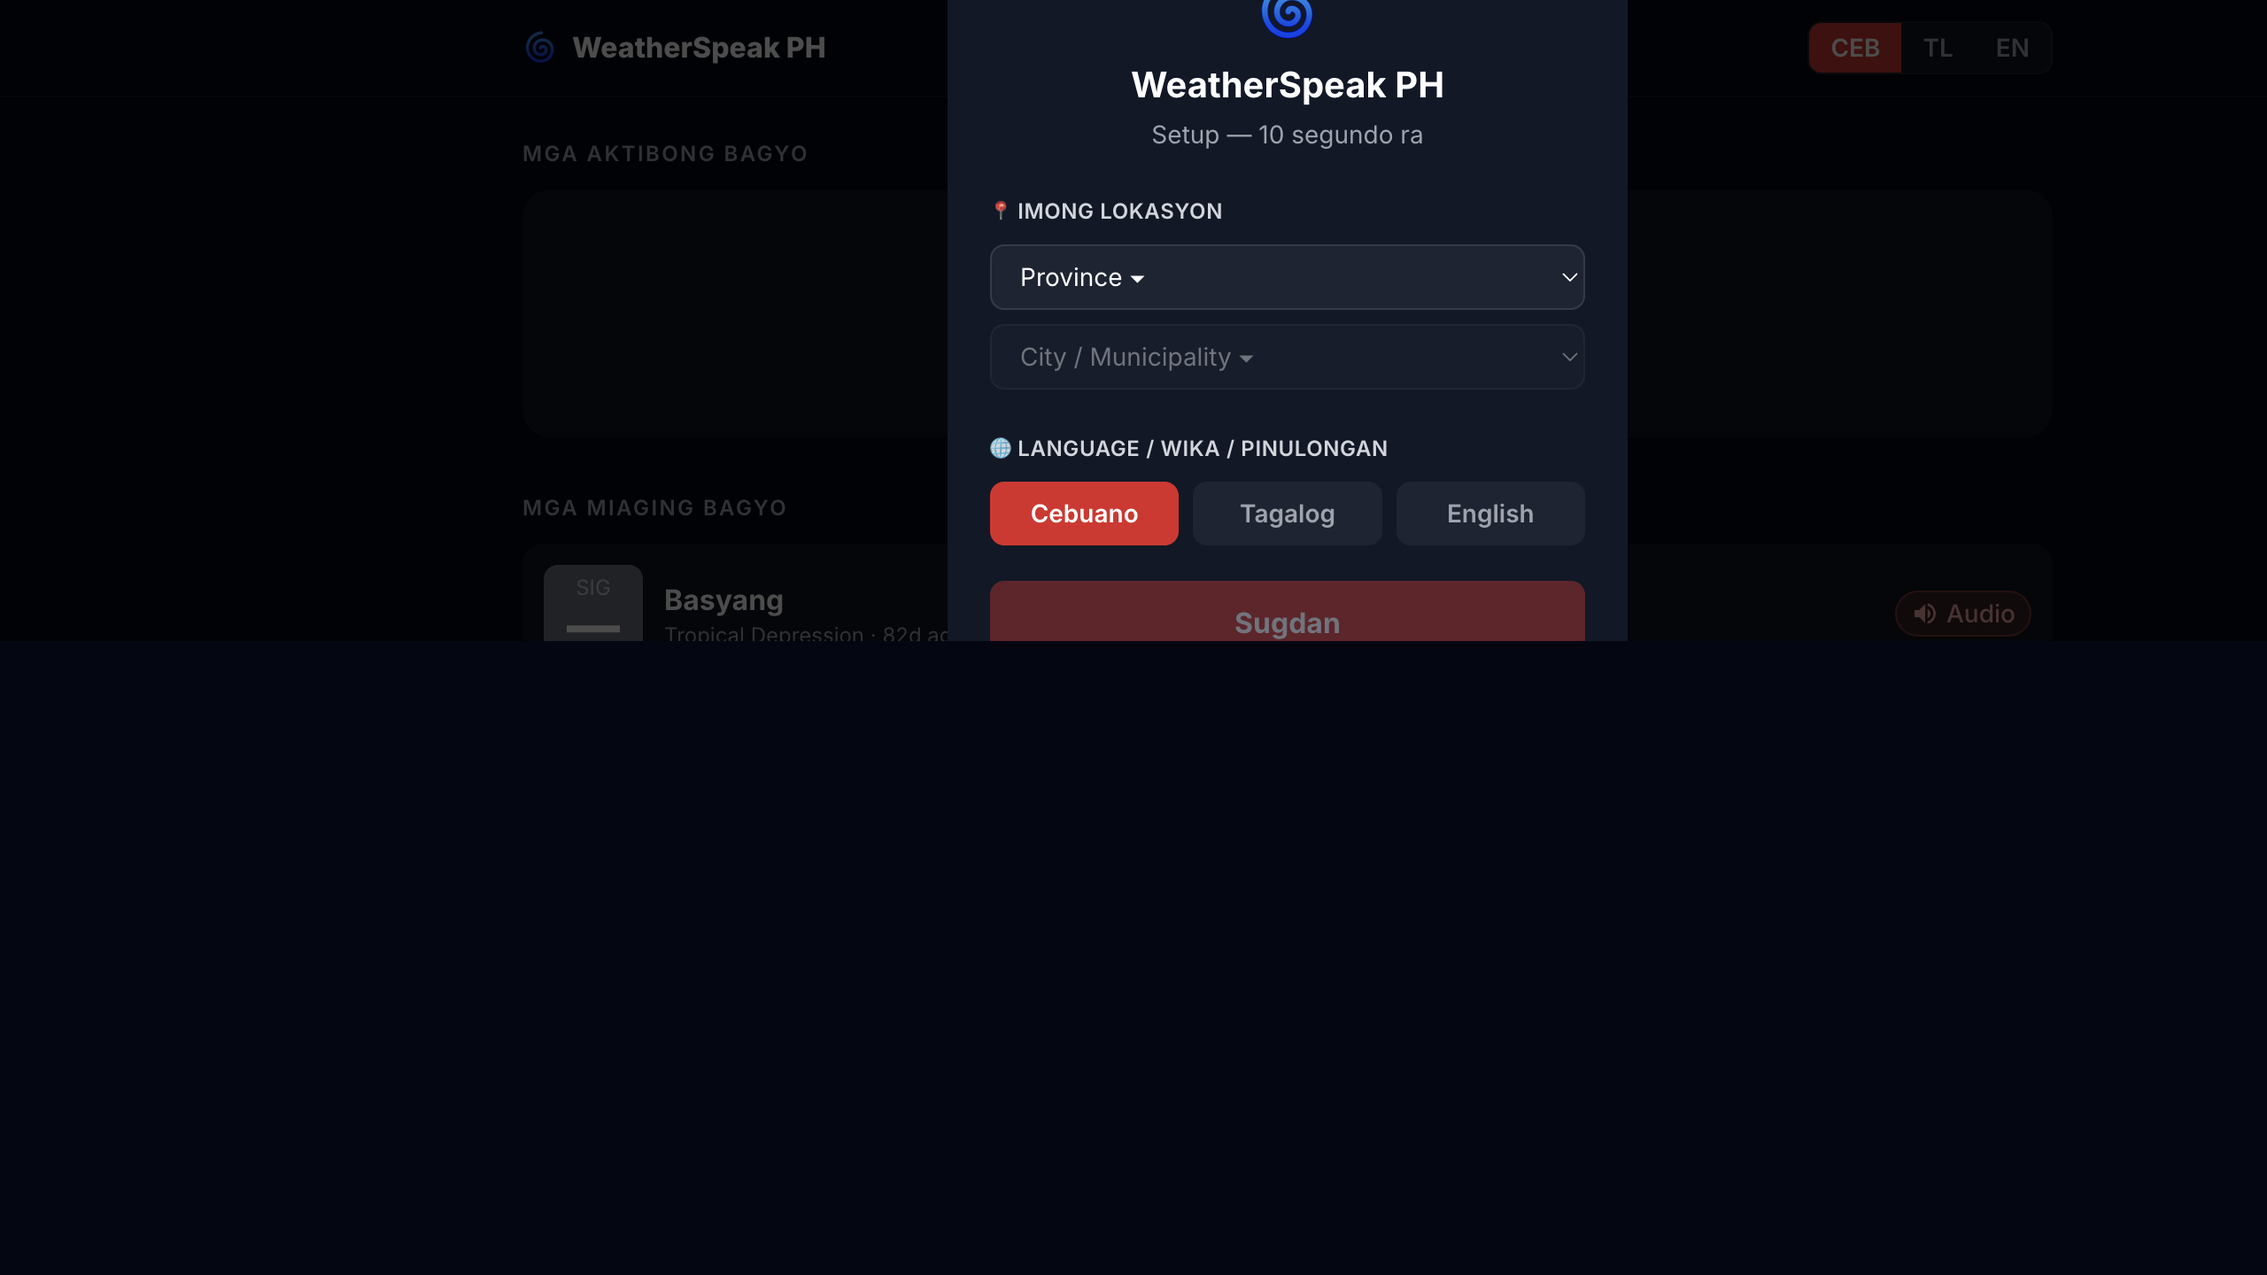
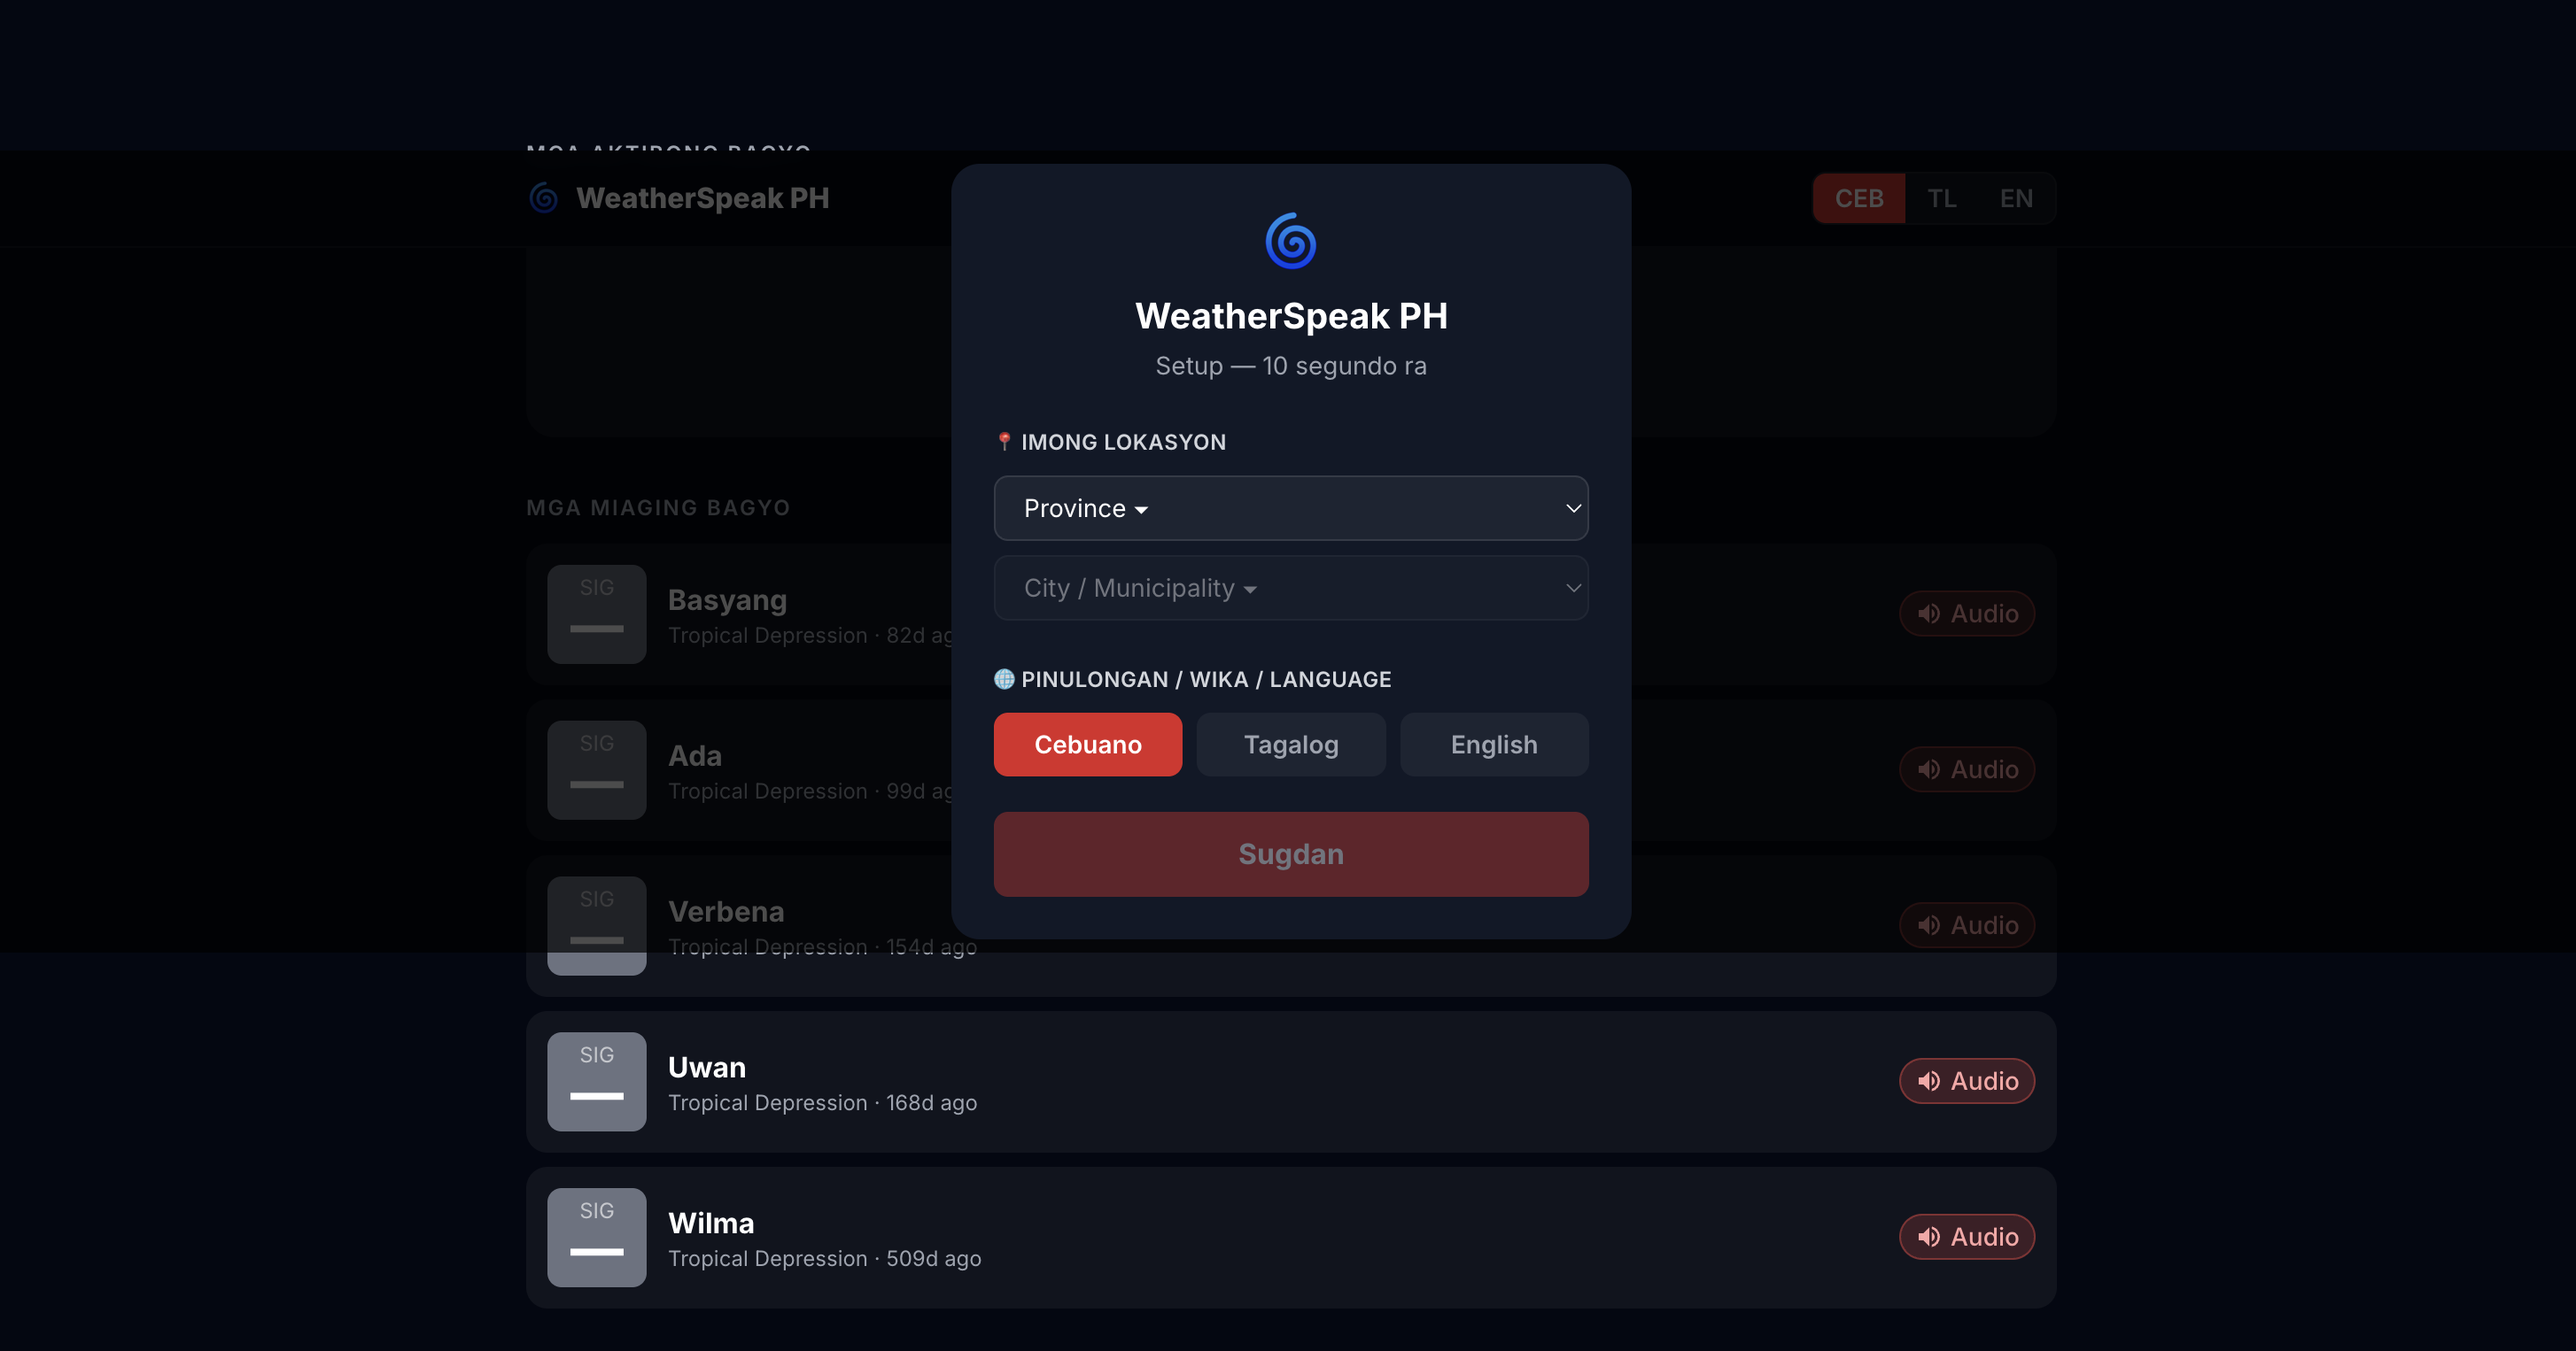
fix: update language label order and retake screenshots with proper framing
Language Label Update:
- Changed order from 'Language / Wika / Pinulongan' to 'Pinulongan / Wika / Language'
- Now matches button order below (Cebuano / Tagalog / English)
- More Filipino-language-first approach

Screenshot Improvements:
- Retaken with mobile viewport (390x844 - iPhone 14 Pro)
- Full-page screenshots to avoid vertical cropping
- Better centered, no excess whitespace
- Added Signal #4 badge to storm detail page for proper UI demonstration

All three screenshots now properly showcase:
1. Onboarding modal with corrected language label
2. Main page with active Signal #4 Typhoon 'Pepito'
3. Storm detail with Signal #4 badge and audio player

diff --git a/web/components/LocationOnboarding.tsx b/web/components/LocationOnboarding.tsx
@@ -125,7 +125,7 @@ export default function LocationOnboarding() {
         {/* Language */}
         <div className="space-y-2">
           <label className="text-xs font-semibold text-gray-300 uppercase tracking-wide">
-            🌐 Language / Wika / Pinulongan
+            🌐 Pinulongan / Wika / Language
           </label>
           <div className="flex gap-2">
             {LANGUAGES.map(l => (
